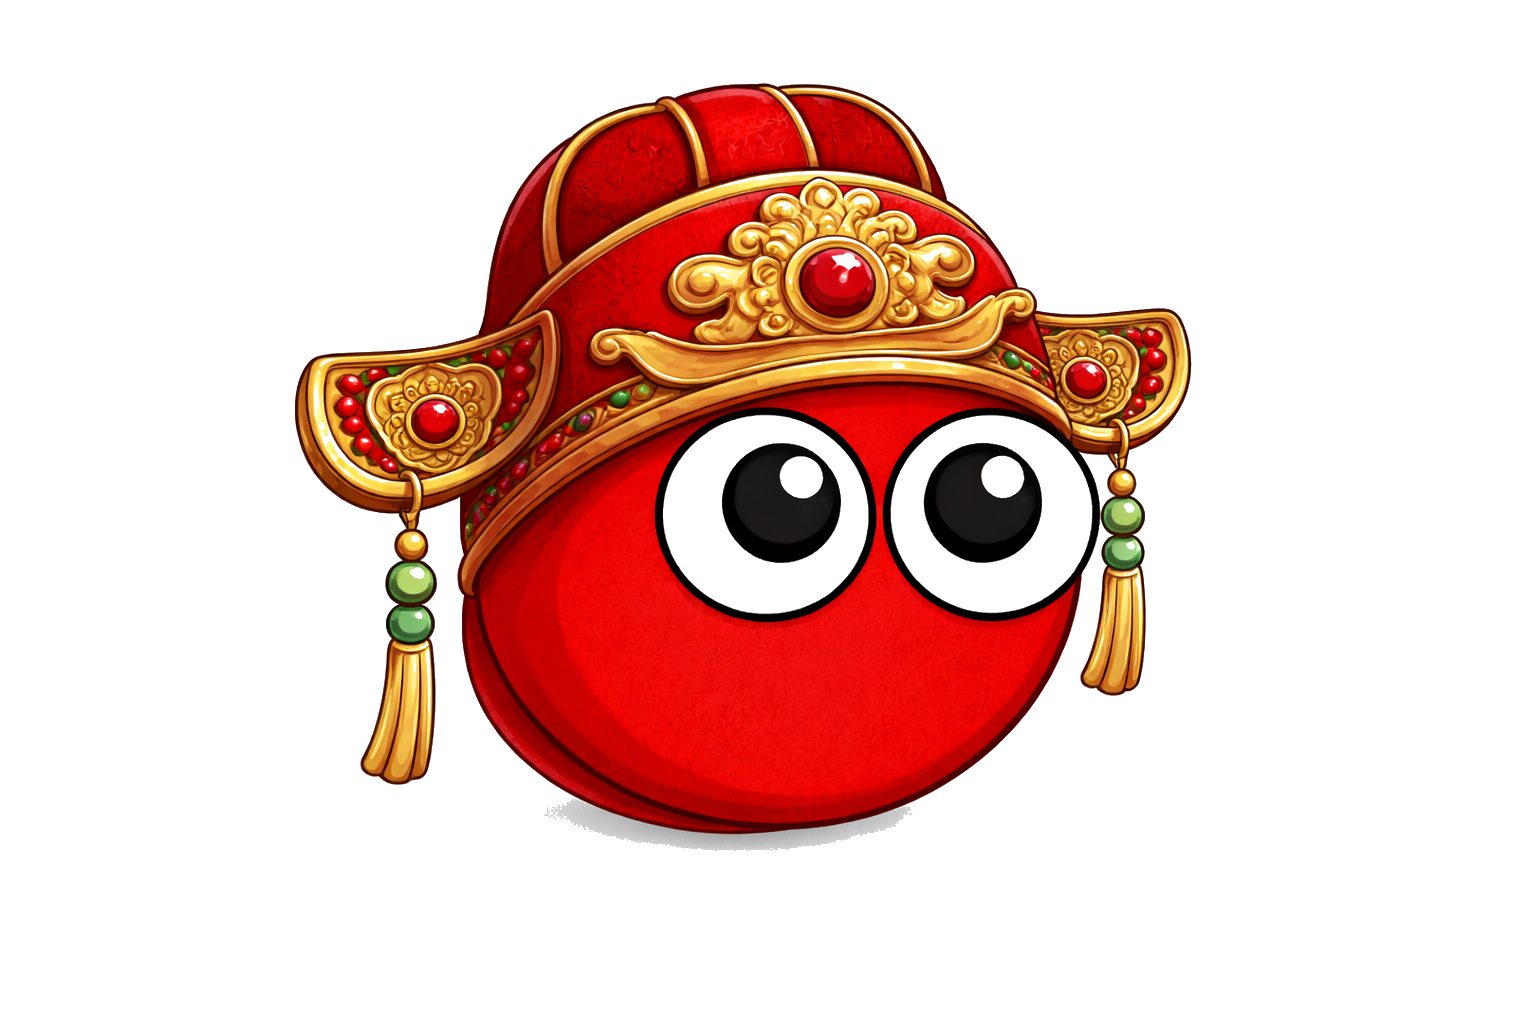
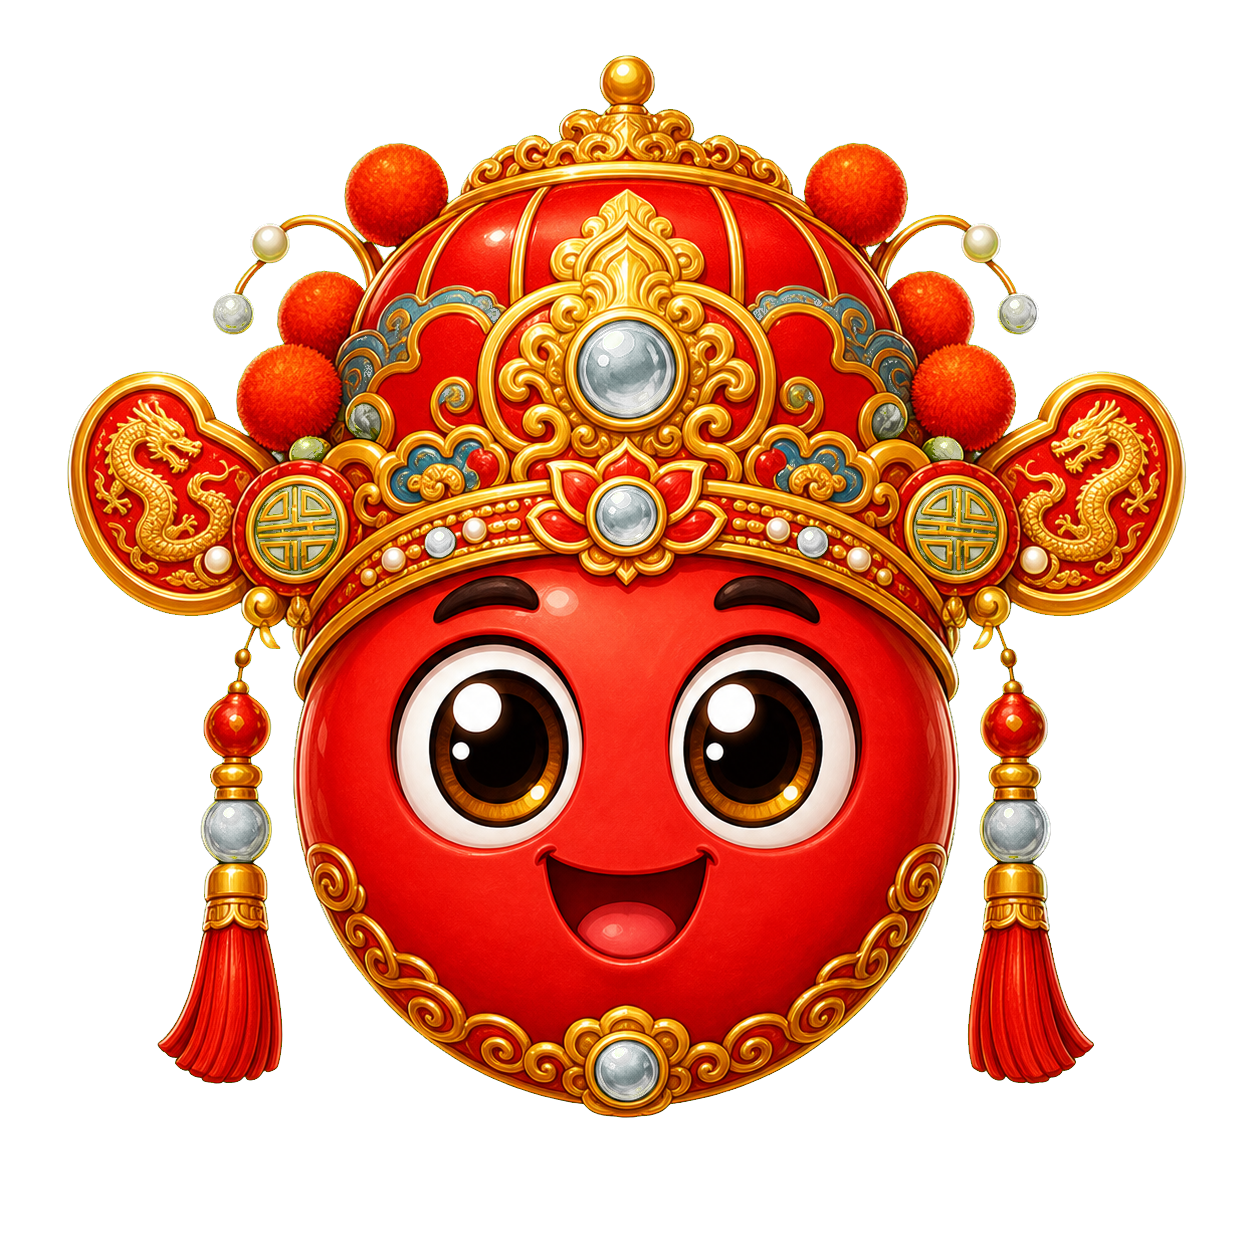
Redesign Chinese New Year premium heads

diff --git a/src/config/events.ts b/src/config/events.ts
@@ -93,7 +93,7 @@ export const GAME_EVENTS: GameEvent[] = [
     emoji: '🏮',
     currencyImage: '/cny-coin.png',
     costumes: [
-      { id: 'cny', label: 'Lanterne', preview: '/heads/cny.svg', bodyTexture: '/heads/cny-body.png' },
+      { id: 'cny', label: 'Lanterne', preview: '/heads/cny.png', bodyTexture: '/heads/cny-body.png' },
       { id: 'cny2', label: 'Dragon', preview: '/heads/cny2.png', bodyTexture: '/heads/cny2-body.png' },
       { id: 'cny3', label: 'Empereur Festif', preview: '/heads/cny3.png', bodyTexture: '/heads/cny3-body.png' },
     ],
